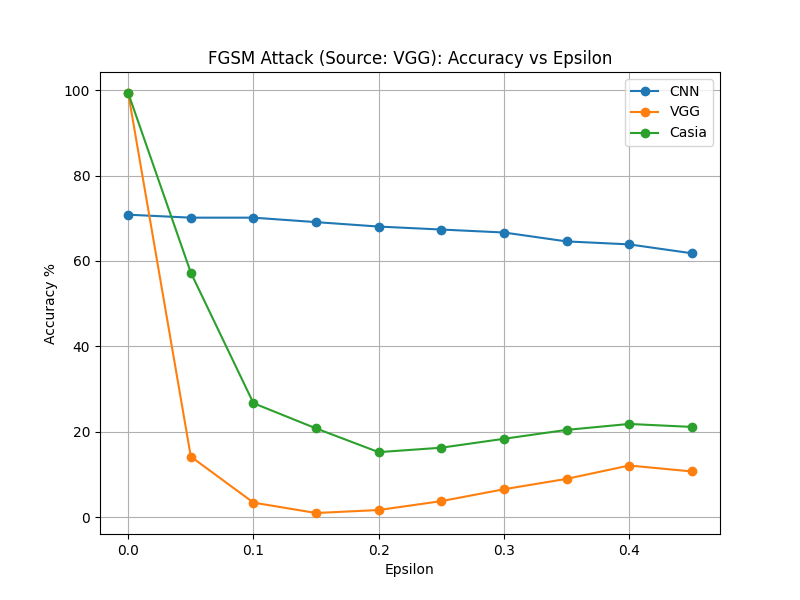
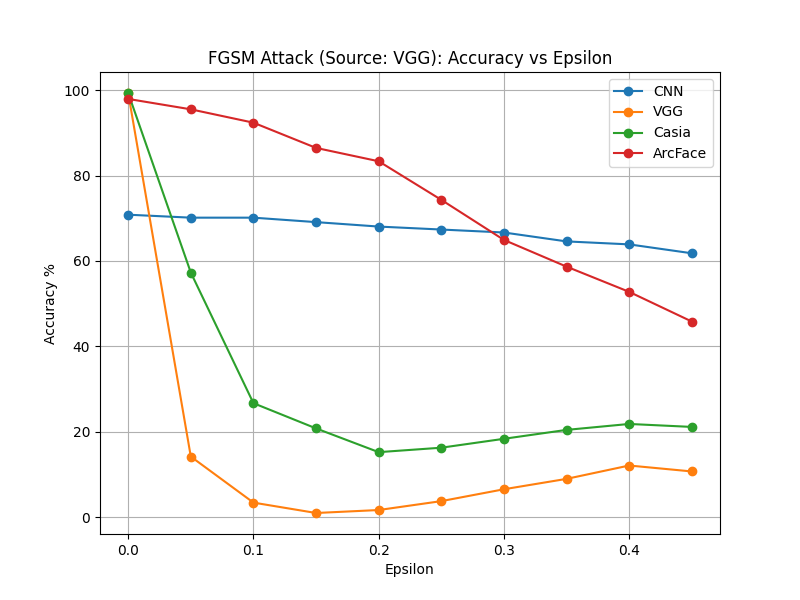
some new figures

diff --git a/perturbation_testing.py b/perturbation_testing.py
@@ -33,17 +33,16 @@ if __name__ == "__main__":
     # Define the epsilons to test
     epsilons = [round(i * 0.05, 2) for i in range(10)]  # [0.0, 0.05, 0.10, ..., 0.45]
 
-    for source_model in target_models: 
-        for attack in attacks: 
-            evaluate_attack(
-                source_model=source_model,
-                target_models=target_models,
-                model_labels=model_labels,
-                dataset=TEST_SET,
-                epsilons=epsilons,
-                attack_method= attack,
-                save_path=figure_path
-            )
+    for attack in attacks: 
+        evaluate_attack(
+            source_model="ArcFace",
+            target_models=target_models,
+            model_labels=model_labels,
+            dataset=TEST_SET,
+            epsilons=epsilons,
+            attack_method= attack,
+            save_path=figure_path
+        )
     
 
 

diff --git a/models/embedding_model.py b/models/embedding_model.py
@@ -80,7 +80,7 @@ class EmbeddingModel(ABC): #ABC = abstract base class
         # 2) prepare input for gradient
         x = image.unsqueeze(0).clone().detach().requires_grad_(True) #(1,3,160,160)
         # 3) forward → embedding → normalize → compute 5 “logits”
-        emb = self.model(x)                                          # (1,512)
+        emb = self.model.forward(x)                                          # (1,512)
         embn = F.normalize(emb, p=2, dim=1)                     # (1,512)
         logits = embn @ cm_torch                                # (1,5)
 
